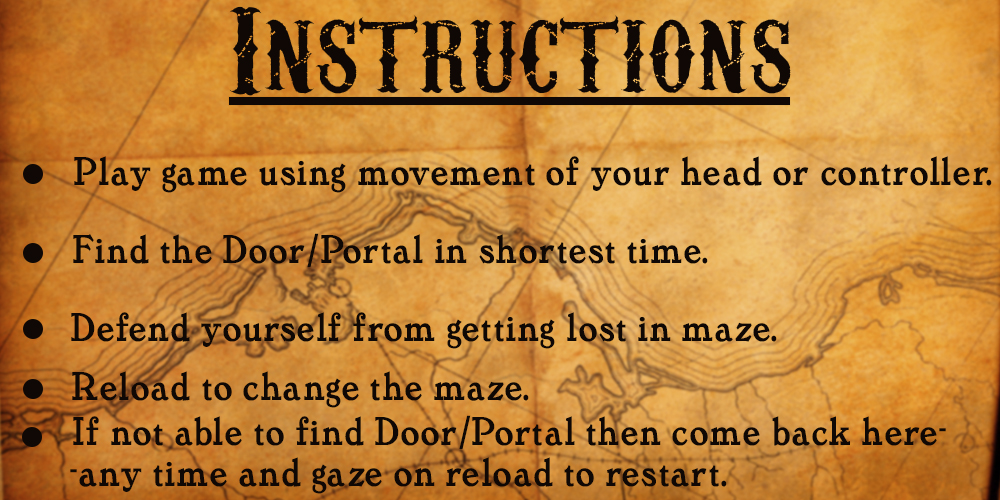
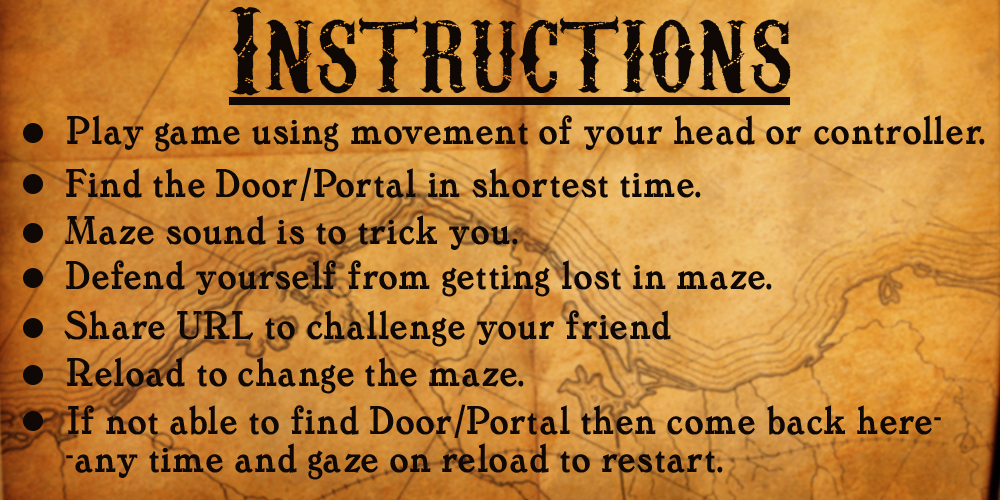
new instructions added and glow removed on cursor remove

Changed region(s): [[0.0, 0.21, 0.992, 0.99]]

diff --git a/src/common.js b/src/common.js
@@ -205,12 +205,13 @@
       // Print instructions
       var plane_instructions = document.createElement("a-box");
       plane_instructions.setAttribute('height',1.5);
-      plane_instructions.setAttribute('width',2.7);
+      plane_instructions.setAttribute('width',2.5);
       plane_instructions.setAttribute('look-at','#camera');
       plane_instructions.setAttribute('rotation','0 90 0');
+      plane_instructions.setAttribute('id','instruction');
+      plane_instructions.setAttribute('on-gaze','');
       plane_instructions.setAttribute('position',(3*(free2-(maze_width-1)*.5))+' 1 '+(3*(free1-(maze_height-1)*.5)));
       plane_instructions.setAttribute('material','src: #asset_instruction;');
-
       scene.appendChild(plane_instructions); 
       
 
@@ -221,7 +222,7 @@
       reload.setAttribute('width',0.3);
       reload.setAttribute('look-at','#camera');
       reload.setAttribute('rotation','0 90 0');
-      reload.setAttribute('position','-25.5 2 -19');
+      reload.setAttribute('position','-25.5 2.2 -19.5');
       reload.setAttribute('material','src: #asset_reload;');
 
       scene.appendChild(reload);

diff --git a/index.html b/index.html
@@ -11,6 +11,7 @@
     <script src="libs/lz-string.min.js"></script>   <!--LZ-based compression algorithm for JavaScript-->
     <script src="libs/aframe-bmfont-text-component.js"></script>    <!--Aframe library used for rendering bitmap font text-->
     <script src="src/common.js"></script>    <!--JavaScript for the game-->
+    <script src="https://cdn.jsdelivr.net/npm/aframe-glow@1.0.1/dist/aframe-glow-component.js"></script>
 
   </head>
 
@@ -65,6 +66,20 @@ AFRAME.registerComponent('on-click', {
 init: function () {
 this.el.addEventListener('click', function (evt) {
   location.reload();
+});
+}
+});
+
+// Instructions Glow Component
+AFRAME.registerComponent('on-gaze', {
+init: function () {
+  this.el.addEventListener('mouseenter', function (evt) {
+  var glow = document.getElementById("instruction");
+  glow.setAttribute('glow','side: front; scale: 2; color: #e8cd00; c: 0.1; p: 3.5;');
+});
+this.el.addEventListener('mouseleave', function (evt) {
+  var glow = document.getElementById("instruction");
+  glow.setAttribute('glow','enabled:false');
 });
 }
 });
